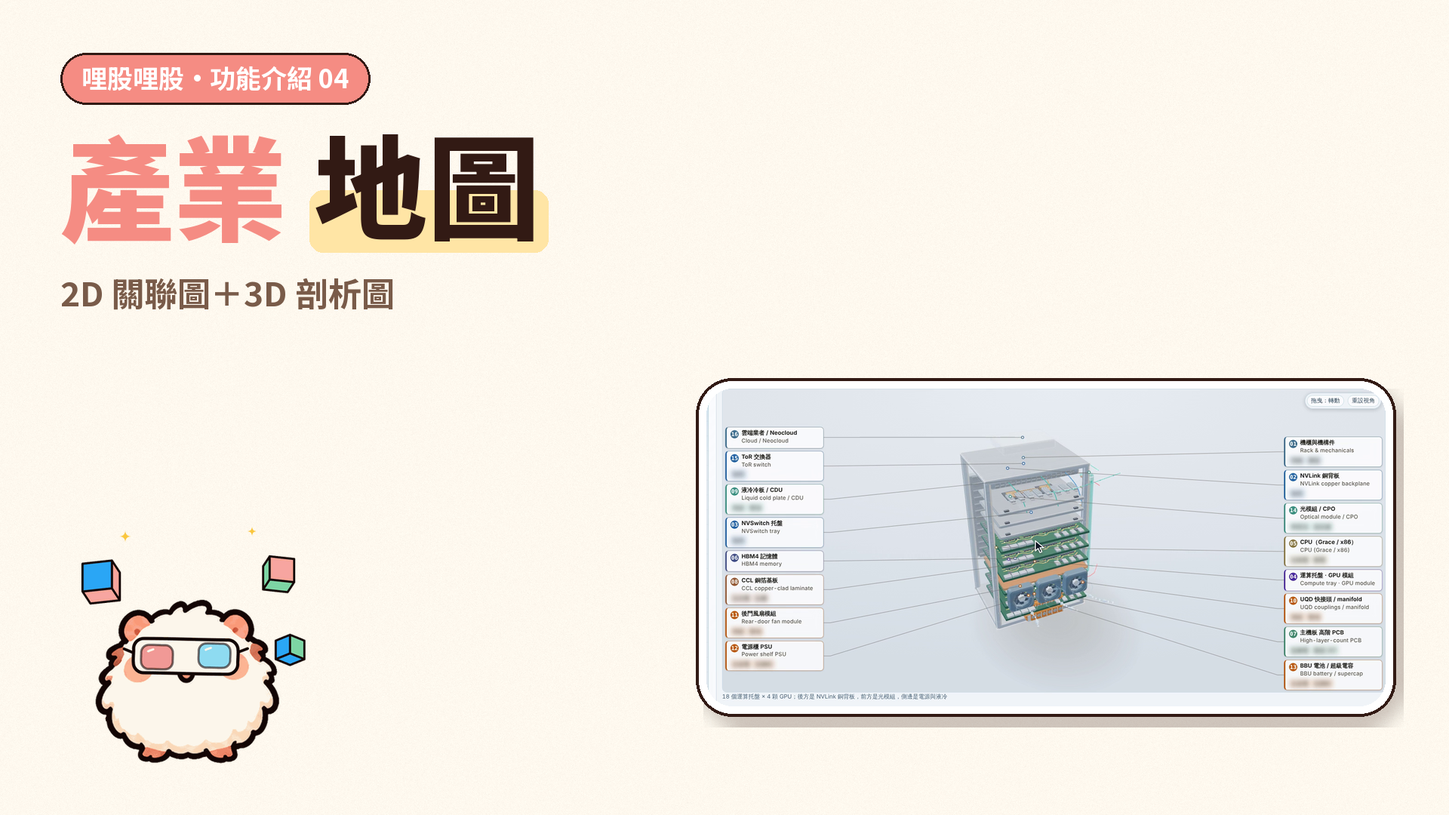
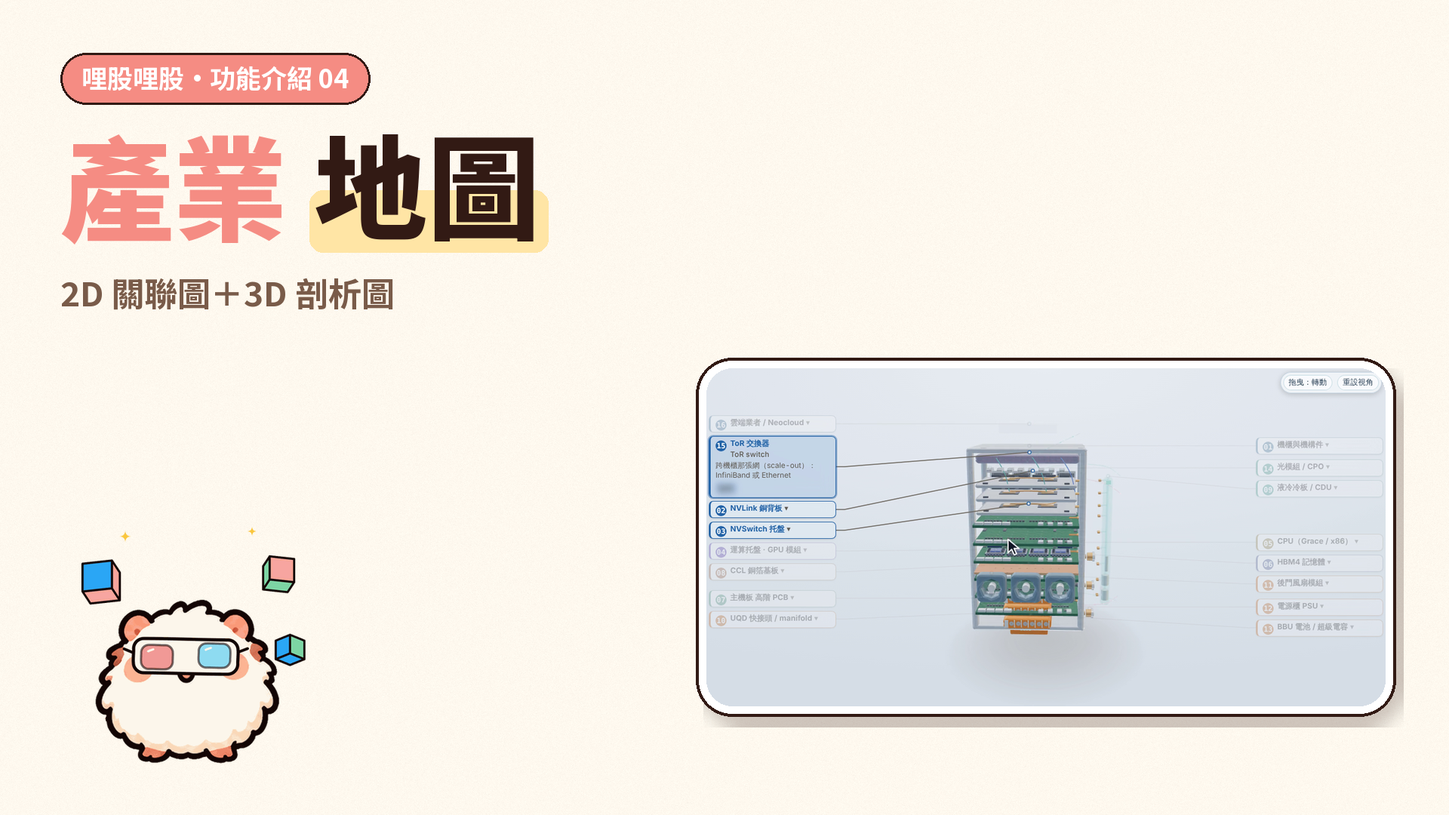
功能影片 04 產業地圖 v3：3D 推近、關聯圖改 IC 載板、封面重做（CEO 審片第二輪）
- 功能 3（3D）網頁：改 1280×800、2 倍像素錄；先點零件（每點一個推到「零件標籤＋說明＋它連到的那一段機櫃」，佔畫面寬 96～97%），再推到機櫃本體＋兩側零件標籤示範拖曳旋轉、展開收攏（95%）
- 3D 標籤點標題（從畫布那一側水平進場、確認最上層是目標才點），點擊誤差量被點的標題本身，最大 0.3px
- 功能 3 手機：拖曳那拍框機櫃＋兩側編號、點編號那拍框編號＋零件說明抽屜（97%／98%）
- 功能 2：第一環 HBM 改 IC 載板（對應族群清單 PCB 載板 3 檔）
- 封面改用 v3 推近後的 3D 畫面
- 裁切各段 0、手機框邊切卡 0、重疊 0、freezedetect 0；網頁 49.3 秒、手機 39.1 秒

Claude-Session: https://claude.ai/code/session_01BcUKrYHkJGWWm6eHcrVxVX

Changed region(s): [[0.4688, 0.4278, 0.9688, 0.8861], [0.625, 0.55, 0.7812, 0.7944]]

diff --git a/docs/marketing/videos/feature_series/04_industry_map/report_ind.py b/docs/marketing/videos/feature_series/04_industry_map/report_ind.py
@@ -18,8 +18,8 @@ PURPOSE = {
     "open": "需求：一台 AI 伺服器從上游到下游有哪些環節？台廠在哪一段？（網頁：2D 產品剖析圖全圖定位約 1 秒 → 推近點編號卡 13 雲端業者、05 板上供電，鏡頭對到「編號卡＋圖上對應零件」；手機：2D 剖析圖）",
     "guide": "引導：首頁 → 左側選單「族群與個股」→「產業地圖」（手機：左上角選單 → 產業地圖）",
     "chain": "選產業鏈：上方分頁連點 半導體 → 一般電子 → AI 伺服器（網頁先全圖定位再推近到分頁列＋下方圖表），再看產品剖析圖（網頁全圖定位 1 秒 → 逐張推近點編號卡 01、03、10，鏡頭對到編號卡＋對應零件；手機點 2 個編號開零件說明抽屜）",
-    "rel": "2D 供應鏈關聯圖：網頁全圖定位約 1 秒 → 連點 3 個環節（HBM 記憶體、電源、交換器），每點一個分兩拍推近：被點環節＋浮出的上游／下游說明 → 對應族群清單；手機在「族群總覽」分頁錄，取景固定在中欄＋右欄（框邊落在欄與欄空隙），連點軟板、交換器、電源展開台廠與連線（公司名一律模糊）",
-    "3d": "3D 立體剖析圖：切 3D → 拖曳旋轉兩次 → 展開／收攏（網頁游標移出移入；手機點空白處）→ 連點 3 個零件（說明與同環節零件連動；手機為下方零件抽屜）→ 網頁零件卡的進料、出貨與對應環節",
+    "rel": "2D 供應鏈關聯圖：網頁全圖定位約 1 秒 → 連點 3 個環節（IC 載板、電源、交換器），每點一個分兩拍推近：被點環節＋浮出的上游／下游說明 → 對應族群清單；手機在「族群總覽」分頁錄，取景固定在中欄＋右欄（框邊落在欄與欄空隙），連點軟板、交換器、電源展開台廠與連線（公司名一律模糊）",
+    "3d": "3D 立體剖析圖（v3 推近）：網頁切 3D → 連點 3 個零件標籤（HBM、電源櫃、ToR 交換器），每點一個推到「零件標籤＋說明＋它連到的那一段機櫃」→ 推到機櫃本體＋兩側零件標籤，拖曳旋轉兩次、游標移出移入展開／收攏 → 零件卡的進料、出貨；手機切 3D → 拖曳旋轉（框機櫃＋兩側編號）→ 點空白處展開／收攏 → 點 3 個編號（框編號＋下方零件說明抽屜）",
     "end": "收尾：價值總結＋CTA「搜尋「哩股哩股」」＋片尾免責",
 }
 
@@ -43,6 +43,7 @@ def main():
     sb = ["# 分鏡表：功能介紹影片 04 產業地圖 v3（網頁 1920×1080／手機 1080×1920、30fps；成片整支 1.5 倍速，下表秒數為原片）", "",
           "- 比比主持、台詞用對話泡泡（一泡一句、≤14 字、原片每泡停留 ≥1.45 秒），不配人聲；底樂＋點擊音效（make_music_v3.py 自製合成）。",
           "- 網站畫面框只放「這一句在介紹的那一塊」：鏡頭＝錄影時每一格量到的元素外框，補成框的比例後裁切放大；區塊以外淡化、外圍藍框。",
+          "- v3（CEO 審片第二輪）：功能 3（3D）網頁、手機也分拍推近（網頁 3D 改 1280×800、2 倍像素錄）；功能 2 第一環 HBM 改成有台廠的 IC 載板（對應族群清單：PCB 載板 3 檔）；封面改用 v3 推近後的 3D 畫面。",
           "- v2（CEO 審片）：網頁版開場、功能 1、功能 2 改成分拍推近 —— 先全圖定位約 1 秒，再推到被點的那一區（編號卡＋對應零件／被點環節＋上下游說明／對應族群清單），推近拍以 3 倍像素錄、介紹內容佔畫面寬 ≥70%；手機版關聯圖改在「族群總覽」分頁錄（點環節後不會自動捲回），取景固定在中欄＋右欄，框邊落在欄與欄的空隙。",
           "- 一律未登入訪客的真實畫面；關聯圖公司卡、右側清單、剖析圖／3D 標籤的公司小籤、零件卡與手機零件抽屜的公司名稱、代號、股價、漲跌在錄影的瀏覽器裡模糊（法遵 9-1 第 1 條：不放大、不標色單一家）；畫面不放角標備註，片尾免責卡原片 4.8 秒（1.5 倍速後 3.2 秒）。",
           "- 本表由 `report_ind.py` 依錄影紀錄自動產生。", ""]

diff --git a/docs/marketing/videos/feature_series/04_industry_map/make_cover.py b/docs/marketing/videos/feature_series/04_industry_map/make_cover.py
@@ -1,7 +1,7 @@
 """功能介紹影片 04 產業地圖：封面兩張（16:9 1920×1080、9:16 1080×1920）。
 
 視覺照 docs/social_handoff/style/LIGULIGU_IG_Threads_Style_Guide.md：奶油紙底 #FFF9EF、深咖啡字 #321A14、
-珊瑚 #F58C83／蜜桃 #FFD4BA／淡黃 #FFE5A5 強調；標題 ≤ 14 字；網站畫面用錄影當下的實際畫面（v3：AI 伺服器 3D 立體剖析圖推近後的那一拍——電源櫃標籤＋說明＋機櫃本體；公司小籤已在錄影瀏覽器模糊）。
+珊瑚 #F58C83／蜜桃 #FFD4BA／淡黃 #FFE5A5 強調；標題 ≤ 14 字；網站畫面用錄影當下的實際畫面（v3：AI 伺服器 3D 立體剖析圖推近後的那一拍——機櫃本體＋兩側零件標籤；公司小籤已在錄影瀏覽器模糊）。
 元素外框兩兩比對（外擴 6px），有重疊就印出來。
 """
 from __future__ import annotations
@@ -27,13 +27,14 @@ YEL = (255, 229, 165)
 
 
 def shot_crop():
-    """v3：用成片同一套鏡頭（render_ind.cam_track）取 d_3d「零件：電源櫃＋說明」那一拍推近後的畫面
-    （被點的零件標籤展開說明＋它連到的機櫃本體；零件標籤上的公司小籤已在錄影瀏覽器模糊）。"""
+    """v3：用成片同一套鏡頭（render_ind.cam_track）取 d_3d「推近：機櫃＋兩側零件標籤（旋轉）」那一拍的畫面
+    （剛點過 ToR 交換器、標籤展開說明；零件標籤上的公司小籤已在錄影瀏覽器模糊）。"""
     js = json.loads((R.RAW / "d_3d.json").read_text(encoding="utf-8"))
-    t = [m[0] for m in js["marks"] if m[1] == "cam" and m[2] == "零件：電源櫃＋說明"][0] + 0.9
+    t = [m[0] for m in js["marks"] if m[1] == "cam" and m[2].startswith("推近：機櫃＋兩側零件標籤（旋轉）")][0] + 1.0
     k = int(t * 30)
     o = R.layout("d")
-    x, y, w, h = R.cam_track(o, js, "3d")["cams"][k]
+    x, y, w, h = R.cam_track(o, js, "3d")["focus"][k][0]   # 推近拍的介紹區塊＝3D 畫布（機櫃本體＋兩側零件標籤），不帶到畫布下方的圖說
+    x, y, w, h = x + 12, y + 12, w - 24, h - 24   # 去掉選取外框的留白（錄影時外擴 4px），畫布邊緣以外一點都不帶
     cap = cv2.VideoCapture(str(R.RAW / "d_3d.mp4"))
     cap.set(cv2.CAP_PROP_POS_FRAMES, k)
     ok, fr = cap.read()

diff --git a/docs/marketing/videos/feature_series/04_industry_map/capture_ind.py b/docs/marketing/videos/feature_series/04_industry_map/capture_ind.py
@@ -242,9 +242,13 @@ class A(C.Act):
                 break
             self.idle(120)   # 最上層不是目標（被隔壁展開的標籤蓋住）：等一下再量
         self.note(f"點 {label}")
+        pre = self.pg.evaluate(C.RECT_JS, sel)   # 按下前一刻量「被點的那個元素」本身（3D 標籤點的是標題 b，不是整張標籤）
         self.click_xy(x, y, 1, 0, expect=sel)
         self.targets[-1]["label"] = label
-        # 中心誤差以「按下前一刻」量到的外框為準（capture.record_target）；點下後標籤會展開說明而變高，不可事後再量
+        if pre and pre[2] > 0:
+            self.targets[-1]["rect_center"] = self._vpt(pre[0] + pre[2] / 2, pre[1] + pre[3] / 2)
+            self.targets[-1]["measured_by"] = "被點元素外框（按下前一刻）"
+        # 中心誤差以「按下前一刻」量到的外框為準；點下後標籤會展開說明而變高，不可事後再量
         return True
 
     def hover(self, sel, ms=420, dx=0.5, dy=0.5):

diff --git a/docs/marketing/videos/feature_series/04_industry_map/storyboard.md b/docs/marketing/videos/feature_series/04_industry_map/storyboard.md
@@ -1,12 +1,13 @@
-# 分鏡表：功能介紹影片 04 產業地圖 v2（網頁 1920×1080／手機 1080×1920、30fps；成片整支 1.5 倍速，下表秒數為原片）
+# 分鏡表：功能介紹影片 04 產業地圖 v3（網頁 1920×1080／手機 1080×1920、30fps；成片整支 1.5 倍速，下表秒數為原片）
 
 - 比比主持、台詞用對話泡泡（一泡一句、≤14 字、原片每泡停留 ≥1.45 秒），不配人聲；底樂＋點擊音效（make_music_v3.py 自製合成）。
 - 網站畫面框只放「這一句在介紹的那一塊」：鏡頭＝錄影時每一格量到的元素外框，補成框的比例後裁切放大；區塊以外淡化、外圍藍框。
+- v3（CEO 審片第二輪）：功能 3（3D）網頁、手機也分拍推近（網頁 3D 改 1280×800、2 倍像素錄）；功能 2 第一環 HBM 改成有台廠的 IC 載板（對應族群清單：PCB 載板 3 檔）；封面改用 v3 推近後的 3D 畫面。
 - v2（CEO 審片）：網頁版開場、功能 1、功能 2 改成分拍推近 —— 先全圖定位約 1 秒，再推到被點的那一區（編號卡＋對應零件／被點環節＋上下游說明／對應族群清單），推近拍以 3 倍像素錄、介紹內容佔畫面寬 ≥70%；手機版關聯圖改在「族群總覽」分頁錄（點環節後不會自動捲回），取景固定在中欄＋右欄，框邊落在欄與欄的空隙。
 - 一律未登入訪客的真實畫面；關聯圖公司卡、右側清單、剖析圖／3D 標籤的公司小籤、零件卡與手機零件抽屜的公司名稱、代號、股價、漲跌在錄影的瀏覽器裡模糊（法遵 9-1 第 1 條：不放大、不標色單一家）；畫面不放角標備註，片尾免責卡原片 4.8 秒（1.5 倍速後 3.2 秒）。
 - 本表由 `report_ind.py` 依錄影紀錄自動產生。
 
-## 網頁版（片長 48.3 秒）
+## 網頁版（片長 49.3 秒）
 
 ### 產業地圖｜產品從上游到下游　0.0–10.7 秒
 
@@ -39,36 +40,36 @@
 
 ### 功能 2｜2D 供應鏈關聯圖　31.9–45.8 秒
 
-- 目的：2D 供應鏈關聯圖：網頁全圖定位約 1 秒 → 連點 3 個環節（HBM 記憶體、電源、交換器），每點一個分兩拍推近：被點環節＋浮出的上游／下游說明 → 對應族群清單；手機在「族群總覽」分頁錄，取景固定在中欄＋右欄（框邊落在欄與欄空隙），連點軟板、交換器、電源展開台廠與連線（公司名一律模糊）
-- 畫面框（鏡頭）：31.9s 供應鏈關聯圖（全圖定位）、34.0s 推近：環節：HBM 記憶體、35.6s 環節：HBM 記憶體＋上下游說明、38.1s 環節：HBM 記憶體：對應族群清單、39.1s 推近：環節：電源、40.1s 環節：電源＋上下游說明、41.1s 環節：電源：對應族群清單、42.1s 推近：環節：交換器、43.1s 環節：交換器＋上下游說明、44.1s 環節：交換器：對應族群清單
-- 操作：34.6s 環節：HBM 記憶體、39.8s 環節：電源、42.7s 環節：交換器
+- 目的：2D 供應鏈關聯圖：網頁全圖定位約 1 秒 → 連點 3 個環節（IC 載板、電源、交換器），每點一個分兩拍推近：被點環節＋浮出的上游／下游說明 → 對應族群清單；手機在「族群總覽」分頁錄，取景固定在中欄＋右欄（框邊落在欄與欄空隙），連點軟板、交換器、電源展開台廠與連線（公司名一律模糊）
+- 畫面框（鏡頭）：31.9s 供應鏈關聯圖（全圖定位）、34.0s 推近：環節：IC 載板、35.6s 環節：IC 載板＋上下游說明、38.1s 環節：IC 載板：對應族群清單、39.1s 推近：環節：電源、40.1s 環節：電源＋上下游說明、41.1s 環節：電源：對應族群清單、42.1s 推近：環節：交換器、43.1s 環節：交換器＋上下游說明、44.1s 環節：交換器：對應族群清單
+- 操作：34.6s 環節：IC 載板、39.8s 環節：電源、42.7s 環節：交換器
 - 泡泡（比比動作）：
   - 31.9s「供應鏈關聯圖：誰供貨給誰」（talk_explain_v2）
   - 34.0s「點環節，看上下游是誰」（point_r_v2）
   - 36.6s「旁邊列出對應族群」（folder）
 
-### 功能 3｜3D 立體剖析圖　45.4–64.2 秒
+### 功能 3｜3D 立體剖析圖　45.4–65.8 秒
 
-- 目的：3D 立體剖析圖：切 3D → 拖曳旋轉兩次 → 展開／收攏（網頁游標移出移入；手機點空白處）→ 連點 3 個零件（說明與同環節零件連動；手機為下方零件抽屜）→ 網頁零件卡的進料、出貨與對應環節
-- 畫面框（鏡頭）：45.4s 2D／3D 切換、47.3s 3D 剖析圖、61.4s 捲動、62.1s 零件卡：進料、出貨
-- 操作：46.1s 切 3D、47.9s canvas、50.2s canvas、55.9s 零件：HBM 記憶體、57.9s 零件：電源櫃、60.0s 零件：ToR 交換器
+- 目的：3D 立體剖析圖（v3 推近）：網頁切 3D → 連點 3 個零件標籤（HBM、電源櫃、ToR 交換器），每點一個推到「零件標籤＋說明＋它連到的那一段機櫃」→ 推到機櫃本體＋兩側零件標籤，拖曳旋轉兩次、游標移出移入展開／收攏 → 零件卡的進料、出貨；手機切 3D → 拖曳旋轉（框機櫃＋兩側編號）→ 點空白處展開／收攏 → 點 3 個編號（框編號＋下方零件說明抽屜）
+- 畫面框（鏡頭）：45.4s 2D／3D 切換、47.3s 推近：機櫃＋兩側零件標籤、47.9s 推近：零件：HBM 記憶體、49.6s 零件：HBM 記憶體＋說明、50.7s 推近：零件：電源櫃、51.9s 零件：電源櫃＋說明、53.0s 推近：零件：ToR 交換器、54.1s 零件：ToR 交換器＋說明、55.2s 推近：機櫃＋兩側零件標籤（旋轉）、62.9s 捲動、63.6s 零件卡：進料、出貨
+- 操作：46.1s 切 3D、48.7s 零件：HBM 記憶體、51.5s 零件：電源櫃、53.7s 零件：ToR 交換器、55.6s canvas、58.0s canvas
 - 泡泡（比比動作）：
   - 45.4s「切到 3D，立體剖析圖」（3dglasses）
-  - 47.4s「拖曳就能 360 度旋轉」（hop_r）
-  - 52.0s「移入展開、移出收攏」（reveal）
-  - 55.2s「點零件，說明與環節連動」（magnifier）
-  - 62.1s「進料、出貨一次看」（pointer_r）
+  - 47.9s「點零件，說明與環節連動」（magnifier）
+  - 55.2s「拖曳就能 360 度旋轉」（hop_r）
+  - 59.7s「移入展開、移出收攏」（reveal）
+  - 63.6s「進料、出貨一次看」（pointer_r）
 
-### 產業地圖｜上下游、台廠位置一次看　63.8–67.9 秒
+### 產業地圖｜上下游、台廠位置一次看　65.4–69.5 秒
 
 - 目的：收尾：價值總結＋CTA「搜尋「哩股哩股」」＋片尾免責
-- 畫面框（鏡頭）：63.9s 總覽
+- 畫面框（鏡頭）：65.4s 總覽
 - 操作：
 - 泡泡（比比動作）：
-  - 63.9s「上下游、台廠位置一次看」（proud_shine）
-  - 65.8s「搜尋「哩股哩股」」（invite_nod）
+  - 65.4s「上下游、台廠位置一次看」（proud_shine）
+  - 67.4s「搜尋「哩股哩股」」（invite_nod）
 
-### 片尾卡　67.5–72.3 秒
+### 片尾卡　69.1–73.9 秒
 
 - 搜尋「哩股哩股」CTA＋三項功能＋免責「本內容為公開資料整理，不構成任何投資建議；投資有風險，請自行判斷。」（停 4.8 秒）；比比 face_bow／wave，泡泡「謝謝收看，我們下次見」。
 
@@ -105,7 +106,7 @@
 
 ### 功能 2｜2D 供應鏈關聯圖　23.9–32.8 秒
 
-- 目的：2D 供應鏈關聯圖：網頁全圖定位約 1 秒 → 連點 3 個環節（HBM 記憶體、電源、交換器），每點一個分兩拍推近：被點環節＋浮出的上游／下游說明 → 對應族群清單；手機在「族群總覽」分頁錄，取景固定在中欄＋右欄（框邊落在欄與欄空隙），連點軟板、交換器、電源展開台廠與連線（公司名一律模糊）
+- 目的：2D 供應鏈關聯圖：網頁全圖定位約 1 秒 → 連點 3 個環節（IC 載板、電源、交換器），每點一個分兩拍推近：被點環節＋浮出的上游／下游說明 → 對應族群清單；手機在「族群總覽」分頁錄，取景固定在中欄＋右欄（框邊落在欄與欄空隙），連點軟板、交換器、電源展開台廠與連線（公司名一律模糊）
 - 畫面框（鏡頭）：23.9s 關聯圖：中欄＋右欄
 - 操作：26.6s 環節：軟板 FPC、28.6s 環節：交換器、30.6s 環節：電源
 - 泡泡（比比動作）：
@@ -115,8 +116,8 @@
 
 ### 功能 3｜3D 立體剖析圖　32.4–50.5 秒
 
-- 目的：3D 立體剖析圖：切 3D → 拖曳旋轉兩次 → 展開／收攏（網頁游標移出移入；手機點空白處）→ 連點 3 個零件（說明與同環節零件連動；手機為下方零件抽屜）→ 網頁零件卡的進料、出貨與對應環節
-- 畫面框（鏡頭）：32.5s 2D／3D 切換、34.4s 3D 剖析圖、42.4s 捲動、43.0s 3D 剖析圖（點編號前）、44.5s 3D＋零件抽屜
+- 目的：3D 立體剖析圖（v3 推近）：網頁切 3D → 連點 3 個零件標籤（HBM、電源櫃、ToR 交換器），每點一個推到「零件標籤＋說明＋它連到的那一段機櫃」→ 推到機櫃本體＋兩側零件標籤，拖曳旋轉兩次、游標移出移入展開／收攏 → 零件卡的進料、出貨；手機切 3D → 拖曳旋轉（框機櫃＋兩側編號）→ 點空白處展開／收攏 → 點 3 個編號（框編號＋下方零件說明抽屜）
+- 畫面框（鏡頭）：32.5s 2D／3D 切換、34.4s 3D 剖析圖：機櫃＋兩側編號、42.4s 捲動、43.0s 3D 剖析圖（點編號前）、44.5s 3D＋零件抽屜（編號＋說明）
 - 操作：33.1s 切 3D、34.9s canvas、37.1s canvas、39.3s 3D 空白處（展開）、41.1s 3D 空白處（收攏）、43.6s 零件：編號 11 後門風扇模組、46.2s 抽屜「›」：編號 12 電源櫃、48.4s 抽屜「›」：編號 13 BBU 電池
 - 泡泡（比比動作）：
   - 32.5s「切到 3D，立體剖析圖」（3dglasses）

diff --git a/docs/marketing/videos/feature_series/04_industry_map/overlap_report.md b/docs/marketing/videos/feature_series/04_industry_map/overlap_report.md
@@ -1,15 +1,15 @@
-# 重疊與畫面檢查報告 v2（render_ind.py 原片每一幀自動產生＋人工抽格）
+# 重疊與畫面檢查報告 v3（render_ind.py 原片每一幀自動產生＋人工抽格）
 
 裁切檢查（v2 起改嚴）：介紹區塊用「元素本身的完整外框」（不以視窗裁切，露在視窗外也算），比的是每一格「實際裁切範圍」（含鏡頭慢移的內縮），區塊有任何一邊超出就記一格；鏡頭在兩拍之間推移的途中（目標取景還沒到位，每次約 0.4～0.8 秒）另列「推移中」不計入。手機關聯圖另外逐格檢查「框邊有沒有切過任何一張環節卡」（卡片外框與實際裁切範圍部分相交就記一格）。
 
 ## 網頁版
 
-- 片長 48.27 秒；程式逐幀檢查 2169 幀；元素外框外擴 6px 兩兩比對：**重疊 0 筆**；其他問題（泡泡字出框、尾巴離比比、超過 14 字、泡泡停留不足 1.45 秒）**0 筆**。
+- 片長 49.30 秒；程式逐幀檢查 2216 幀；元素外框外擴 6px 兩兩比對：**重疊 0 筆**；其他問題（泡泡字出框、尾巴離比比、超過 14 字、泡泡停留不足 1.45 秒）**0 筆**。
 - 登記的元素：膠囊、標題、右上（上方）說明、功能導覽（網頁）、網站畫面框、泡泡（含尾巴）、比比（每一幀實際不透明外框）、片尾卡內各元素。
-- 人工抽格：每 0.5 秒一張全解析度（scratchpad `feat04/samples_v2_d/`），看過 145 張。
-- 點擊：16 次點按鈕／元素，點擊特效中心＝錄影當下量到的元素中心，誤差最大 0.2px（影片像素）；另有 0 次點 3D 空白處（展開／收攏，不以元素中心計誤差）、2 次拖曳起點；點擊落在畫面框外 0 次。
+- 人工抽格：每 0.5 秒一張全解析度（scratchpad `feat04/samples_v3_d/`），看過 148 張。
+- 點擊：16 次點按鈕／元素，點擊特效中心＝錄影當下量到的元素中心，誤差最大 0.3px（影片像素）；另有 0 次點 3D 空白處（展開／收攏，不以元素中心計誤差）、2 次拖曳起點；點擊落在畫面框外 0 次。
 - 停格：成片 ffmpeg freezedetect（n=0.003、d=0.5）0 筆；畫面框內來源畫面連續不動最長 0.97 秒（14.73 秒附近）。
-- 鏡頭裁到介紹區塊的幀數（各段）：open 0, guide 0, chain 0, rel 0, 3d 0, end 0；推移中（不計）：open 53, guide 16, chain 123, rel 177, 3d 0, end 0。
+- 鏡頭裁到介紹區塊的幀數（各段）：open 0, guide 0, chain 0, rel 0, 3d 0, end 0；推移中（不計）：open 53, guide 16, chain 123, rel 191, 3d 112, end 0。
 - 框邊切過環節卡的幀數（網頁版不適用）：open 0, guide 0, chain 0, rel 0, 3d 0, end 0。
 - 推近拍：介紹內容佔畫面寬（最小值）／每 1 css 像素在成片上的像素（字放大倍數，v1 全圖約 1.1）：
   - open｜推近：編號卡 13 雲端業者：佔寬 96%，每 css 像素 2.59px
@@ -22,15 +22,22 @@
   - chain｜推近：編號卡 03 電源櫃：佔寬 76%，每 css 像素 2.22px
   - chain｜編號卡 03 電源櫃＋對應零件：佔寬 76%，每 css 像素 2.22px
   - chain｜編號卡 10 光通訊＋對應零件：佔寬 98%，每 css 像素 3.11px
-  - rel｜推近：環節：HBM 記憶體：佔寬 96%，每 css 像素 3.13px
-  - rel｜環節：HBM 記憶體＋上下游說明：佔寬 96%，每 css 像素 3.13px
-  - rel｜環節：HBM 記憶體：對應族群清單：佔寬 81%，每 css 像素 3.82px
+  - rel｜推近：環節：IC 載板：佔寬 96%，每 css 像素 3.13px
+  - rel｜環節：IC 載板＋上下游說明：佔寬 88%，每 css 像素 3.78px
+  - rel｜環節：IC 載板：對應族群清單：佔寬 81%，每 css 像素 3.83px
   - rel｜推近：環節：電源：佔寬 98%，每 css 像素 3.16px
   - rel｜環節：電源＋上下游說明：佔寬 97%，每 css 像素 3.29px
   - rel｜環節：電源：對應族群清單：佔寬 81%，每 css 像素 3.82px
   - rel｜推近：環節：交換器：佔寬 98%，每 css 像素 3.16px
   - rel｜環節：交換器＋上下游說明：佔寬 97%，每 css 像素 3.17px
   - rel｜環節：交換器：對應族群清單：佔寬 81%，每 css 像素 3.82px
+  - 3d｜推近：零件：HBM 記憶體：佔寬 96%，每 css 像素 2.29px
+  - 3d｜零件：HBM 記憶體＋說明：佔寬 97%，每 css 像素 2.32px
+  - 3d｜推近：零件：電源櫃：佔寬 97%，每 css 像素 2.32px
+  - 3d｜零件：電源櫃＋說明：佔寬 97%，每 css 像素 2.32px
+  - 3d｜推近：零件：ToR 交換器：佔寬 97%，每 css 像素 2.32px
+  - 3d｜零件：ToR 交換器＋說明：佔寬 97%，每 css 像素 2.32px
+  - 3d｜推近：機櫃＋兩側零件標籤（旋轉）：佔寬 95%，每 css 像素 1.39px
 
 <details><summary>逐筆紀錄</summary>
 
@@ -52,27 +59,28 @@
 | 26.27 | 點擊 | 編號卡 01 ToR 交換器 | 0.0 | 是 |
 | 28.23 | 點擊 | 編號卡 03 電源櫃 | 0.0 | 是 |
 | 30.2 | 點擊 | 編號卡 10 光通訊 | 0.0 | 是 |
-| 34.6 | 點擊 | 環節：HBM 記憶體 | 0.0 | 是 |
+| 34.6 | 點擊 | 環節：IC 載板 | 0.0 | 是 |
 | 39.77 | 點擊 | 環節：電源 | 0.0 | 是 |
 | 42.74 | 點擊 | 環節：交換器 | 0.0 | 是 |
 | 46.07 | 點擊 | 切 3D | 0.0 | 是 |
-| 47.87 | 拖曳起點 | canvas | — | 是 |
-| 50.2 | 拖曳起點 | canvas | — | 是 |
-| 55.87 | 點擊 | 零件：HBM 記憶體 | 0.2 | 是 |
-| 57.93 | 點擊 | 零件：電源櫃 | 0.0 | 是 |
-| 60.0 | 點擊 | 零件：ToR 交換器 | 0.0 | 是 |
+| 48.73 | 點擊 | 零件：HBM 記憶體 | 0.3 | 是 |
+| 51.53 | 點擊 | 零件：電源櫃 | 0.0 | 是 |
+| 53.7 | 點擊 | 零件：ToR 交換器 | 0.0 | 是 |
+| 55.63 | 拖曳起點 | canvas | — | 是 |
+| 57.97 | 拖曳起點 | canvas | — | 是 |
 
 ## 手機版
 
 - 片長 39.10 秒；程式逐幀檢查 1756 幀；元素外框外擴 6px 兩兩比對：**重疊 0 筆**；其他問題（泡泡字出框、尾巴離比比、超過 14 字、泡泡停留不足 1.45 秒）**0 筆**。
 - 登記的元素：膠囊、標題、右上（上方）說明、功能導覽（網頁）、網站畫面框、泡泡（含尾巴）、比比（每一幀實際不透明外框）、片尾卡內各元素。
-- 人工抽格：每 0.5 秒一張全解析度（scratchpad `feat04/samples_v2_m/`），看過 118 張。
+- 人工抽格：每 0.5 秒一張全解析度（scratchpad `feat04/samples_v3_m/`），看過 118 張。
 - 點擊：15 次點按鈕／元素，點擊特效中心＝錄影當下量到的元素中心，誤差最大 0.0px（影片像素）；另有 2 次點 3D 空白處（展開／收攏，不以元素中心計誤差）、2 次拖曳起點；點擊落在畫面框外 0 次。
 - 停格：成片 ffmpeg freezedetect（n=0.003、d=0.5）0 筆；畫面框內來源畫面連續不動最長 1.03 秒（30.03 秒附近）。
 - 鏡頭裁到介紹區塊的幀數（各段）：open 0, guide 0, chain 0, rel 0, 3d 0, end 0；推移中（不計）：open 0, guide 53, chain 46, rel 0, 3d 76, end 0。
 - 框邊切過環節卡的幀數（手機關聯圖 rel／end 逐格檢查）：open 0, guide 0, chain 0, rel 0, 3d 0, end 0。
 - 推近拍：介紹內容佔畫面寬（最小值）／每 1 css 像素在成片上的像素（字放大倍數，v1 全圖約 1.1）：
-  - （手機版鏡頭本來就只框介紹的那一塊，這一版沒有另外的推近拍；每 css 像素在成片上約 2.4～3.1px）
+  - 3d｜3D 剖析圖：機櫃＋兩側編號：佔寬 97%，每 css 像素 2.86px
+  - 3d｜3D＋零件抽屜（編號＋說明）：佔寬 98%，每 css 像素 2.45px
 
 <details><summary>逐筆紀錄</summary>
 
